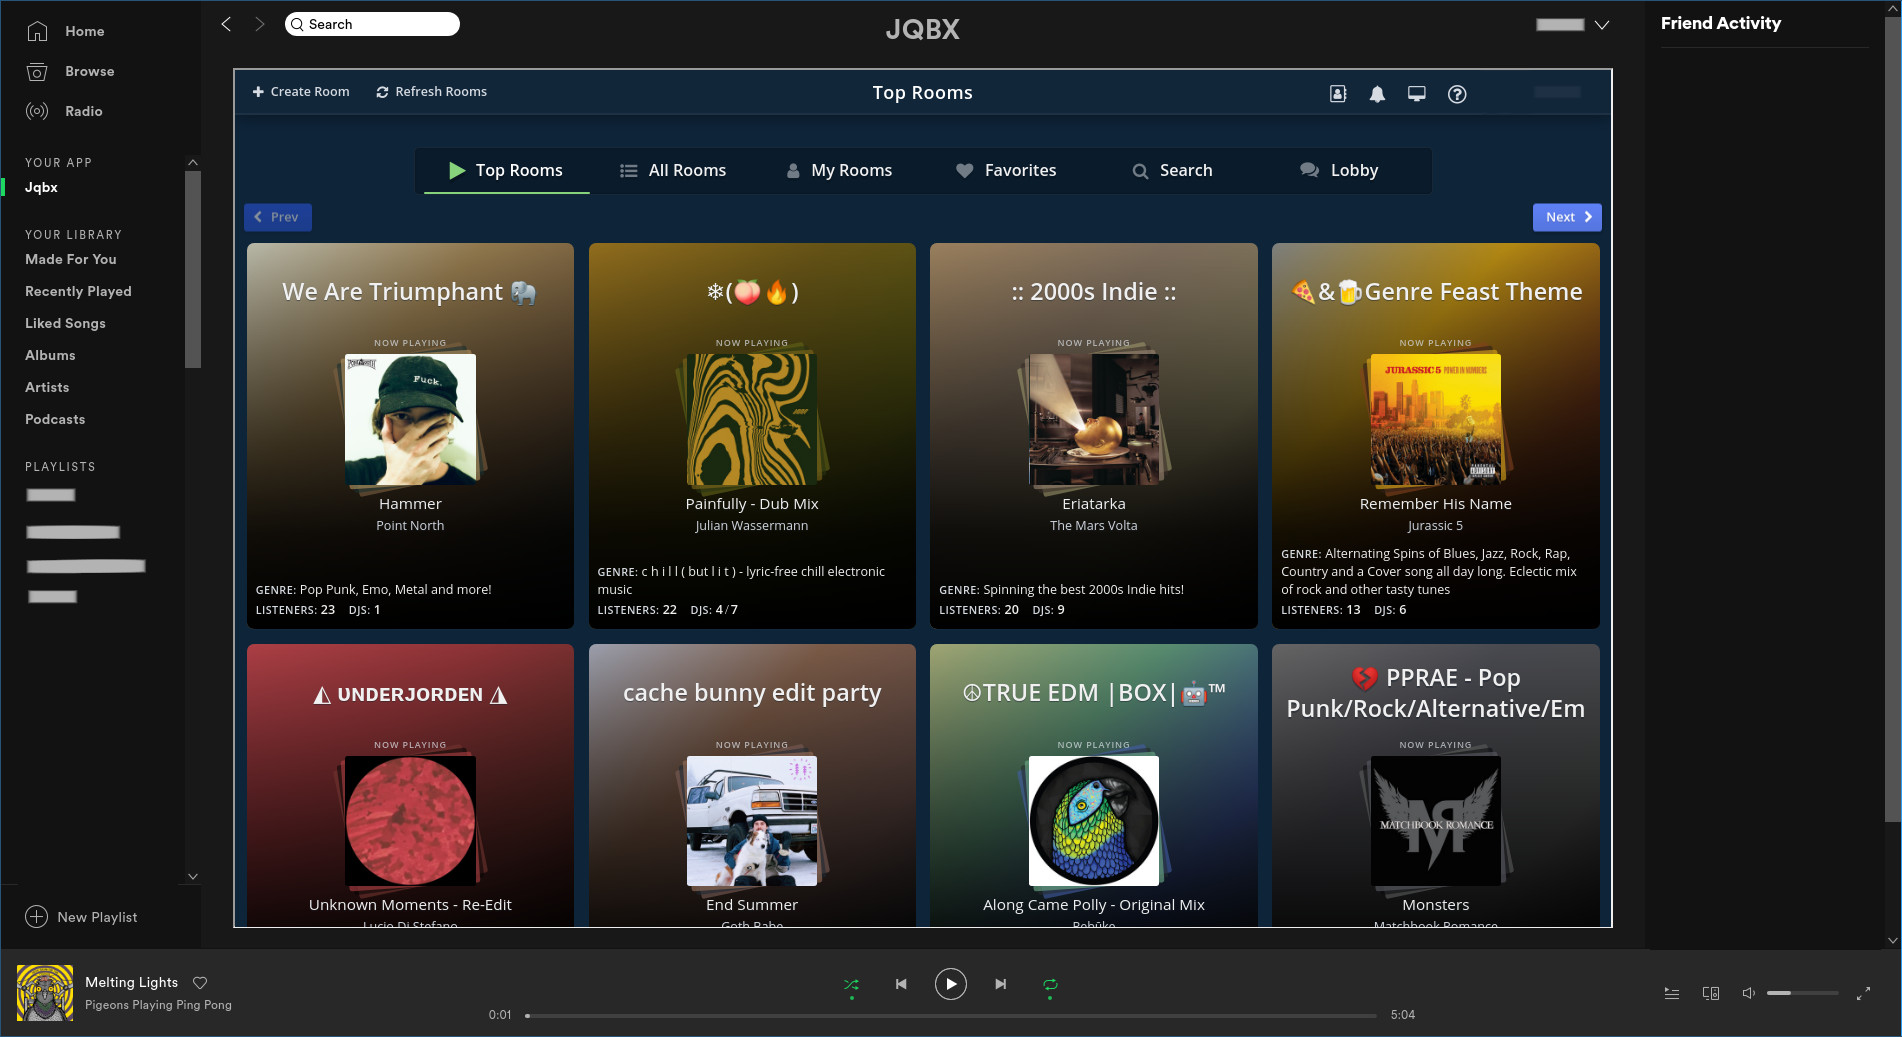
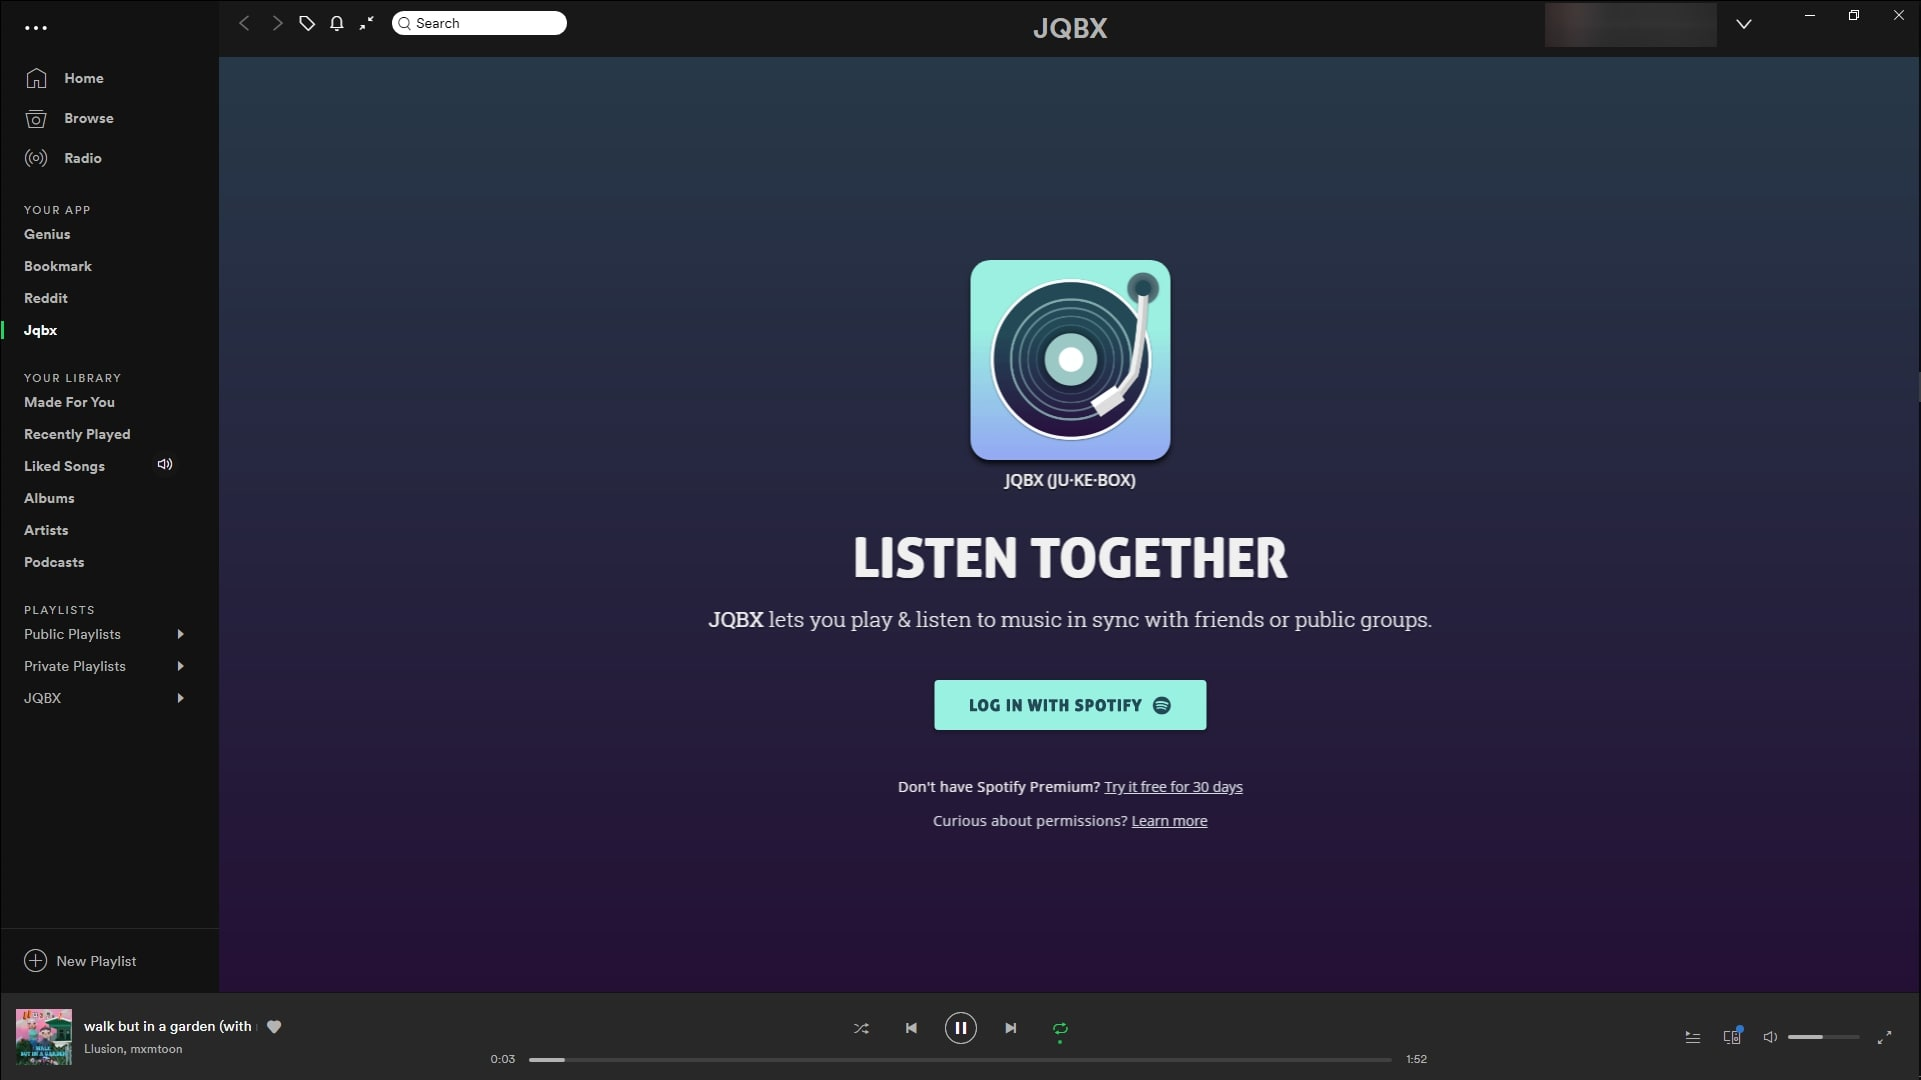
Update Code to work

diff --git a/index.html b/index.html
@@ -1,24 +1,24 @@
 <!--
 // NAME: JQBX
-// VERSION: 1.0.0
+// VERSION: 1.1.0
 // AUTHOR: Kasama
 // DESCRIPTION: Open JQBX within Spotify
  -->
 <!DOCTYPE html>
 <html>
-<head>
-  <meta charset="utf-8">
-  <link rel="stylesheet" href="https://local_resource_host/css/glue.css">
-  <link rel="stylesheet" href="https://zlink.app.spotify.com/css/glue.css">
-  <link rel="stylesheet" href="css/style.css">
-  <link rel="stylesheet" class="spicetify-userCSS" href="https://zlink.app.spotify.com/css/user.css">
-</head>
-<body class="container">
-  <h1 class="title">JQBX</h1>
-  <iframe
-    class="jqbx"
-    src="https://app.jqbx.fm/rooms"
-    sandbox="allow-forms allow-popups allow-scripts allow-same-origin allow-top-navigation allow-popups-to-escape-sandbox">
-  </iframe>
-</body>
+   <head>
+      <meta charset="utf-8">
+      <title>JQBX</title>
+      <link rel="stylesheet" href="https://local_resource_host/css/glue.css">
+      <link rel="stylesheet" href="https://zlink.app.spotify.com/css/glue.css">
+      <link rel="stylesheet" href="css/style.css">
+      <link rel="stylesheet" class="spicetify-userCSS" href="https://zlink.app.spotify.com/css/user.css">
+   </head>
+   <body>
+	  <h1 class="title">JQBX</h1>
+      <div>
+         <iframe class="jqbx" src="https://app.jqbx.fm/rooms" frameborder="0" sandbox="allow-forms allow-popups allow-scripts allow-same-origin allow-top-navigation allow-popups-to-escape-sandbox"> </iframe>
+      </div>
+   </body>
 </html>
+

diff --git a/css/style.css b/css/style.css
@@ -1,15 +1,12 @@
-.container {
-  display: flex;
-  flex-direction: column;
+body {
+	overflow: hidden;
 }
 
 .title {
-  align-self: center;
+  text-align: center;
 }
 
 .jqbx {
+  height: 95vh;
   width: 100%;
-  margin-top: 10px;
-  margin-bottom: 20px;
-  flex-grow: 1;
 }
